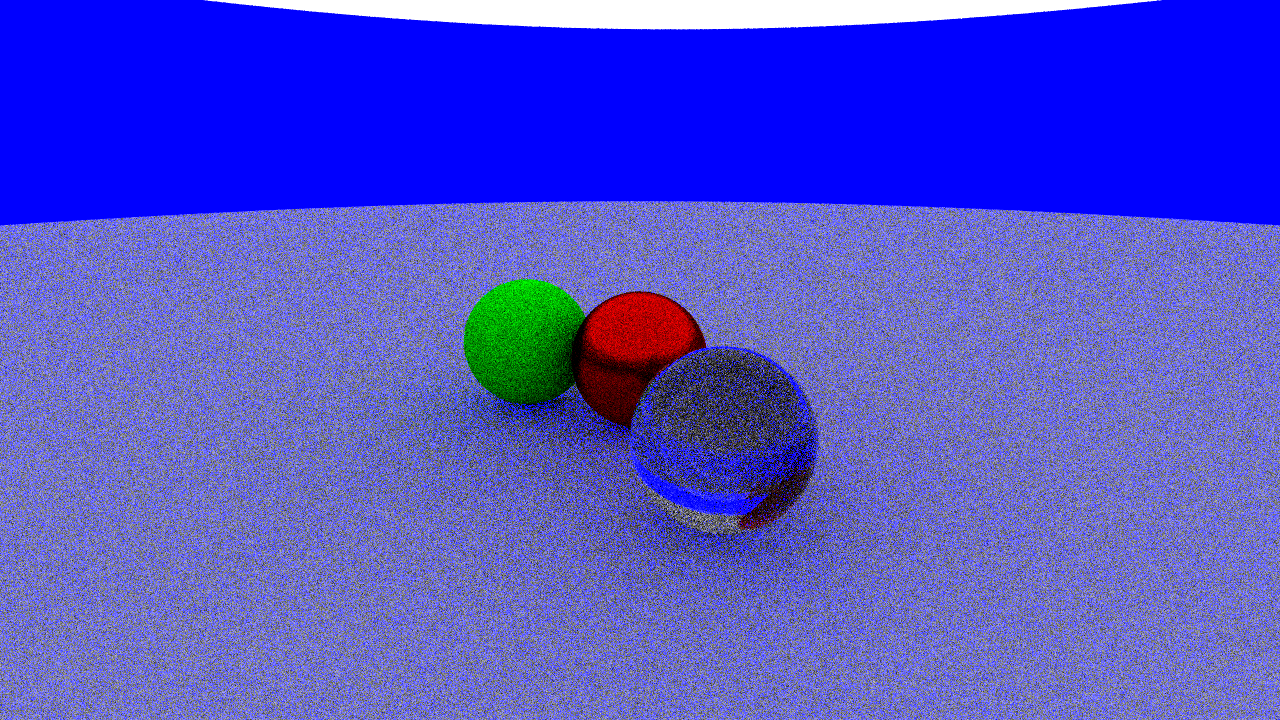
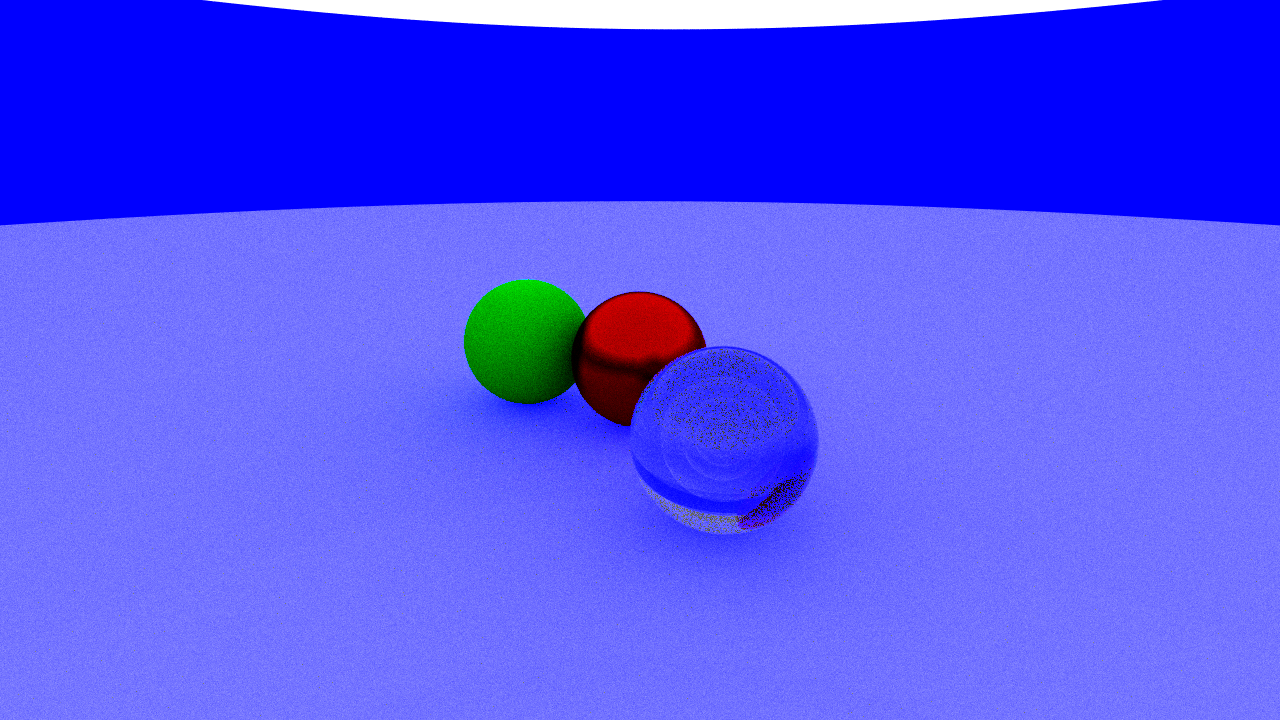
Fixed the file structure and analyzed unit

diff --git a/src/materials/metallic.cpp b/src/materials/metallic.cpp
@@ -12,6 +12,6 @@ Metallic::Metallic(Color color, bool emitting, double fuzz)
 
 Ray Metallic::scatter(const Ray& ray, const Hit& hit) const {
     Vector3D reflected = reflect(ray.direction, hit.normal);
-    reflected = unit(reflected) + (fuzz * random_unit_vector());
+    reflected += fuzz * random_unit_vector();
     return Ray{hit.position, reflected};
 }

diff --git a/src/camera.cpp b/src/camera.cpp
@@ -25,5 +25,5 @@ Camera::Camera(Point3D position, Point3D target, Vector3D up, double fov, double
 
 Ray Camera::compute_ray(double s, double t) const {
     Vector3D direction = upper_left_corner + (horizontal * s) + (vertical * t) - position;
-    return {position, unit(direction)};
+    return {position, direction};
 }

diff --git a/performance-report/performance.md b/performance-report/performance.md
@@ -1,0 +1,109 @@
+Input scene file and total runtime of rendering it
+• Profiling stats showing percentage time spend in each function
+random_double() is more
+• Details about what code optimizations you made to improve performance
+• Profiling stats for the raytracer after optimization
+• Final runtime for input scene
+• Summarize your results, how much of a performance gain did you achieve?
+
+# Performance Tuning - Raytracer Project - Jonathan Abel
+## Input File
+```
+# Test for performance
+# materials
+material red metallic (1 0 0) false 0.2
+material light diffuse (1 1 1) true
+material floor lambertian (0.8 0.8 0.8) false
+material glass glass (1 1 1) false
+material green lambertian (0 1 0) false
+# floor
+sphere (0 0 -1000) 1000 floor
+# spheres
+sphere (0 0 1) 1 red
+sphere (2 -2 1) 1 glass
+sphere (-2 0 1) 1 green
+# light
+sphere (0 20 1020) 1000 light
+# rendering
+rays 10 100
+camera (4 -8 4) (0 0 1) (0 0 1) 90
+pixels 1280 720
+output performance.png
+```
+Program runs 10 ray depth and 100 samples.
+
+Generation yields this image:
+![Example-Output](performance.png)
+
+## Initial Runtime
+The initial runtime with the above code was 60.566 seconds using Vtune Profiler.
+![Initial-Runtime](Raytracer-Initial-Runtime.png)
+
+## Hotspots
+![Initial-Hotspots](Raytracer-Initial-Hotspots.png)
+There are a few areas that take the most of the cpu's time in this program:
+Sphere::intersect takes up most of the time, but this would make sense because it is generating the rays. The rest of the four in the above image seems like they could be optimized with better code or less usage:
+
+1. std::uniform_real_distribution - this is mostly a lot of calls to random_double after looking into it.
+2. unit - this is used throughout the program to normalize the direction of the rays, removing unnecessary unit calls will make it faster.
+3. dot
+4. random_double (again)
+
+## Code Optimizations
+
+### Unit
+In this function for compute ray, I unnecessarily added a unit for the direction here when it already does that in the class.
+```c++
+Ray Camera::compute_ray(double s, double t) const {
+    Vector3D direction = upper_left_corner + (horizontal * s) + (vertical * t) - position;
+    return {position, unit(direction)};
+}
+```
+```c++
+Ray::Ray(const Point3D& origin, const Vector3D& direction)
+    :origin{origin}, direction{unit(direction)} {}
+```
+In Vtune, it looks like this could save around 2 seconds.
+![Compute-Ray](raytracer-compute-ray.png)
+
+Metallic might have another useless call for unit, at least if it matters if the direction is normalized before the fuzz factor is added.
+
+```c++
+Ray Metallic::scatter(const Ray& ray, const Hit& hit) const {
+    Vector3D reflected = reflect(ray.direction, hit.normal);
+    reflected = unit(reflected) + (fuzz * random_unit_vector());
+    return Ray{hit.position, reflected};
+}
+```
+Updated function call:
+```c++
+Ray Metallic::scatter(const Ray& ray, const Hit& hit) const {
+    Vector3D reflected = reflect(ray.direction, hit.normal);
+    reflected += fuzz * random_unit_vector();
+    return Ray{hit.position, reflected};
+}
+```
+This will probably save a little bit of time, but not much.
+Each of the other ones there have necessary calls to unit in the ray constructor.
+
+#### Runtime Test 2
+![Test-2](performance-test-2.png)
+
+As I guessed, it saved around 2 seconds.
+The amount of time used by the cpu is 9.4% for Unit, but it had a slight save in Sphere::intersect.
+
+### Dot
+Checked sphere::intersect for dot usage, not much that I could cut down on.
+
+### Random_double
+To save time on Random_double, I have to find a better type of random number generator.
+```c++
+double random_double() {
+    // static means it runs globally once
+    static std::random_device rd;
+    static std::mt19937 engine{rd()}; // 0
+    static std::uniform_real_distribution<double> distribution{0, 1};
+    return distribution(engine);
+}
+```
+
